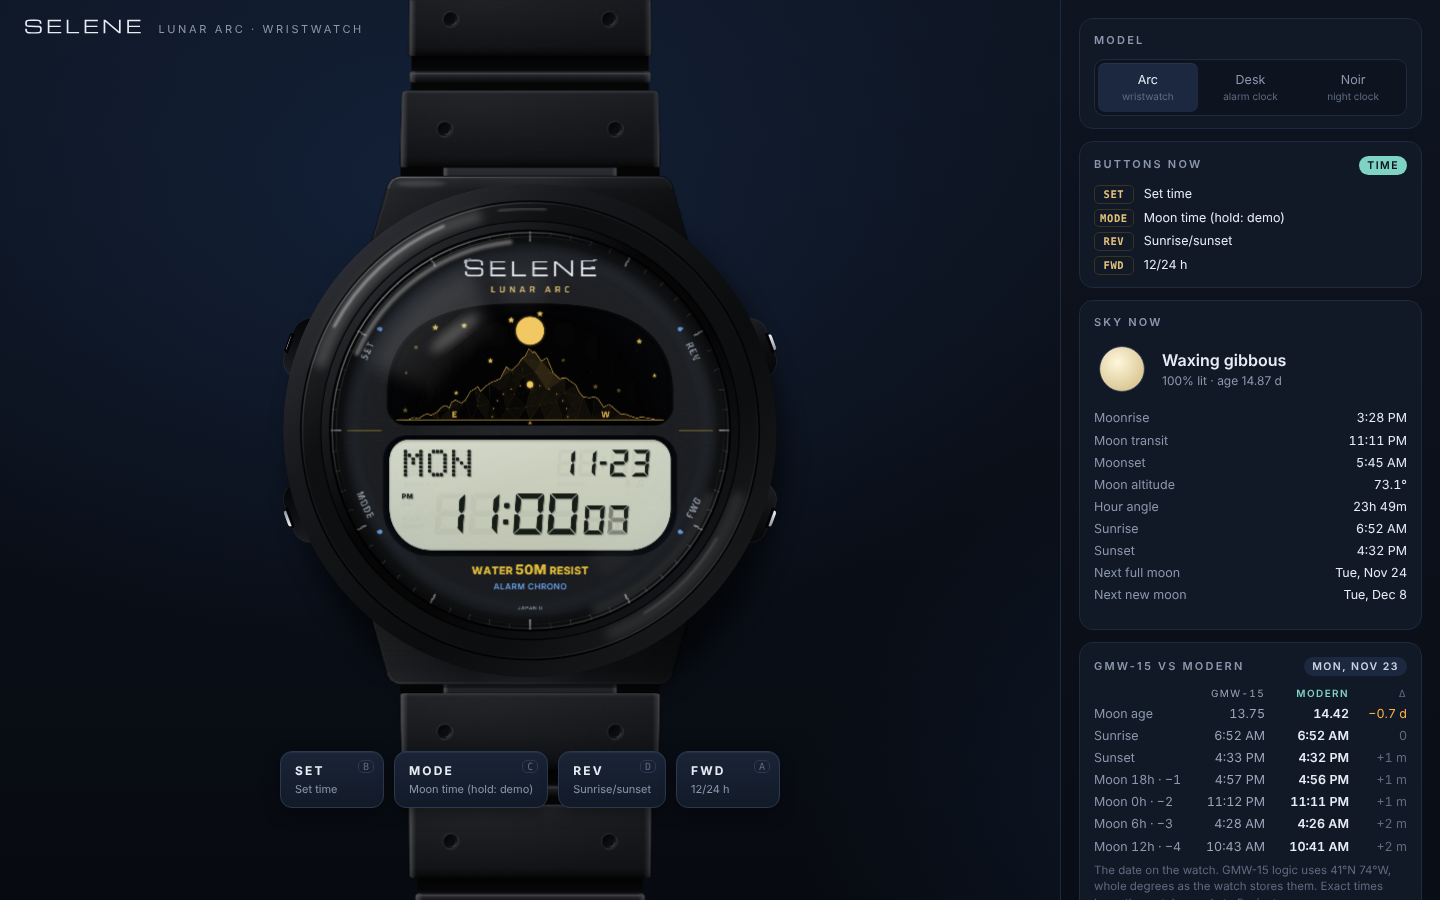
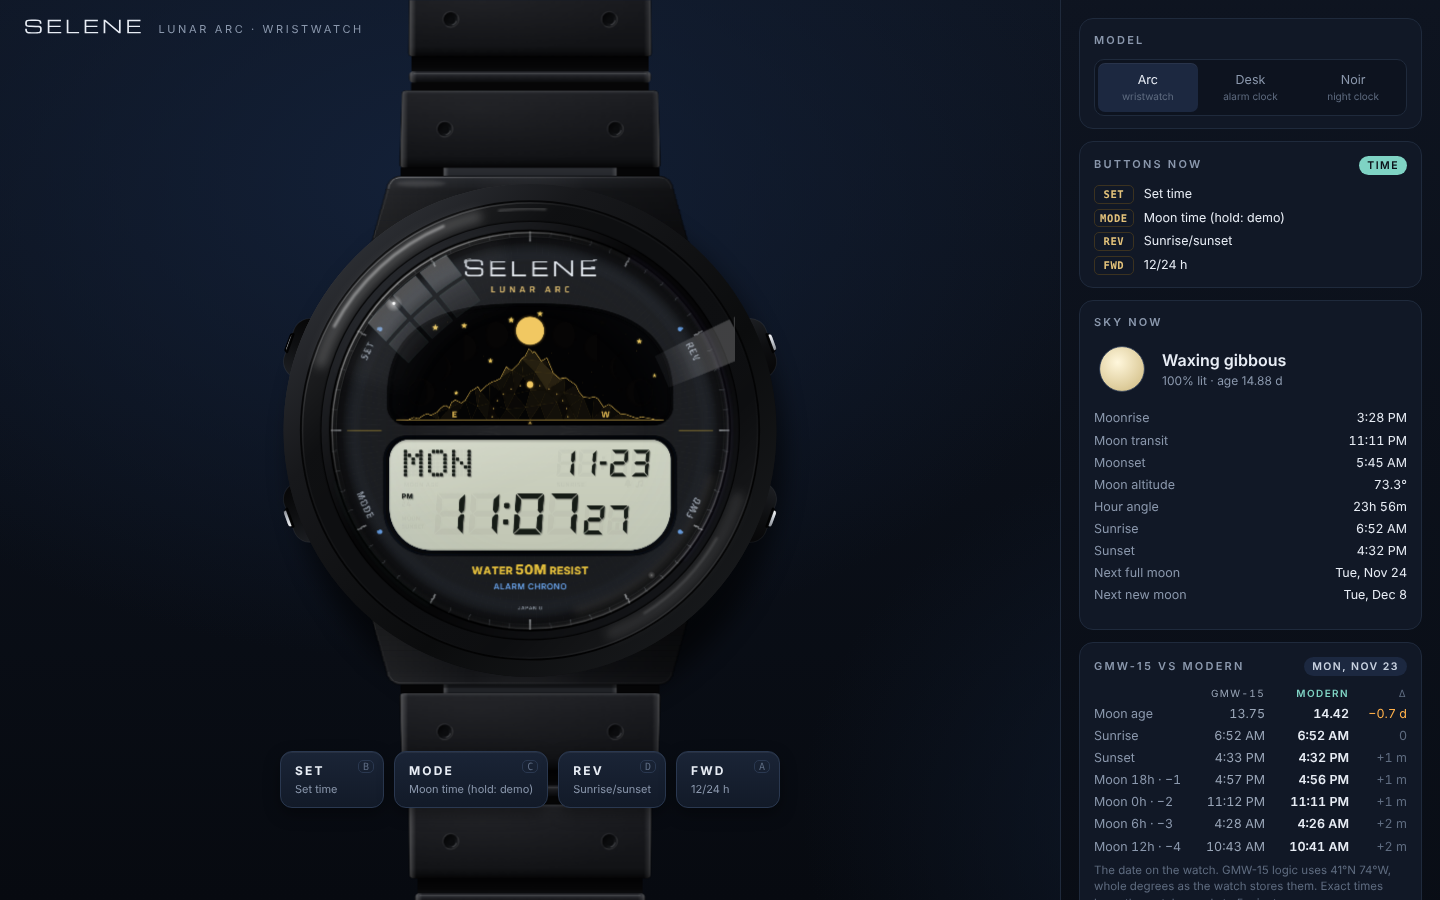
Convex-lens crystal reflection: curved window panes, lamp glint, Fresnel falloff, coating tint, clipped to the crystal
Claude-Session: https://claude.ai/code/session_013ungtZWuFc7hHZrkieKASF

diff --git a/dist/index.html b/dist/index.html
@@ -40,8 +40,9 @@ header.top .tag{font-size:11px;letter-spacing:.24em;color:var(--mute);text-trans
 .device:not(:has(.dialwin)) .dial{transform:translateZ(-22px)}
 .device:not(:has(.dialwin)) .segs{transform:translateZ(-21px)}
 .device .glass{transform:translateZ(6px)}
-.device .spec{transform:translateZ(40px) translate(calc(var(--tx,0)*-2.4%),calc(var(--ty,0)*-2.4%));transition:transform .5s cubic-bezier(.2,.7,.2,1)}
-.device:not(.dome) .spec,.device:not(.dome) .domeonly{display:none}
+.device .specwrap{width:100%;transform:translateZ(40px)}
+.device .specwrap .spec{display:block;width:100%;height:auto;transform:translate(calc(var(--tx,0)*-2.4%),calc(var(--ty,0)*-2.4%));transition:transform .5s cubic-bezier(.2,.7,.2,1);will-change:transform}
+.device:not(.dome) .specwrap,.device:not(.dome) .domeonly{display:none}
 .dome.lens .print{filter:url(#dome)}
 .device.clock svg{max-height:calc(100vh - 210px)}
 .device.watch svg{max-height:calc(100vh - 150px)}
@@ -148,7 +149,7 @@ details summary{cursor:pointer;color:#c9d2e0;font-size:13px}
 .device-wrap{width:min(100%,520px)}
 .pbtn{min-width:calc(50% - 6px);flex:1}
 }
-@media (prefers-reduced-motion:reduce){.device,.device .spec{transition:none}}
+@media (prefers-reduced-motion:reduce){.device,.device .specwrap .spec{transition:none}}
 </style>
 </head>
 <body>
@@ -1982,32 +1983,79 @@ ${svgOpen('segs', vb, 'aria-hidden="true"')}<defs>${clip('segClip')}
 <linearGradient id="lipG" x1="0" y1="0" x2="1" y2="1"><stop offset="0" stop-color="${o.lip[0]}"/><stop offset=".42" stop-color="${o.lip[1]}"/><stop offset=".6" stop-color="${o.lip[1]}"/><stop offset="1" stop-color="${o.lip[2]}"/></linearGradient>
 <linearGradient id="rimG" x1="0" y1="0" x2="1" y2="1"><stop offset="0" stop-color="#fff" stop-opacity="${o.rim}"/><stop offset=".36" stop-color="#fff" stop-opacity="0"/><stop offset=".64" stop-color="#fff" stop-opacity="0"/><stop offset="1" stop-color="#fff" stop-opacity="${o.rim * 0.45}"/></linearGradient>
 <radialGradient id="wallG" gradientUnits="userSpaceOnUse" cx="${cx + 9}" cy="${cy + 13}" r="${Ra + 16}"><stop offset=".86" stop-color="#000" stop-opacity="0"/><stop offset=".95" stop-color="#000" stop-opacity="${o.wall * 0.45}"/><stop offset="1" stop-color="#000" stop-opacity="${o.wall}"/></radialGradient>
+<linearGradient id="fresG" x1="0" y1="0" x2="1" y2="1"><stop offset="0" stop-color="#fff" stop-opacity="${o.rim * 0.34}"/><stop offset=".3" stop-color="#fff" stop-opacity="${o.rim * 0.05}"/><stop offset=".7" stop-color="#fff" stop-opacity="${o.rim * 0.04}"/><stop offset="1" stop-color="#fff" stop-opacity="${o.rim * 0.22}"/></linearGradient>
 <radialGradient id="tintG" gradientUnits="userSpaceOnUse" cx="${cx}" cy="${cy}" r="${Ra}"><stop offset=".55" stop-color="#9fc0ee" stop-opacity="0"/><stop offset=".84" stop-color="#9fc0ee" stop-opacity="${o.tint}"/><stop offset=".94" stop-color="#05070a" stop-opacity="${o.edge * 0.5}"/><stop offset="1" stop-color="#000" stop-opacity="${o.edge}"/></radialGradient>
 </defs>
 <circle cx="${cx}" cy="${cy}" r="${Ra + 1}" fill="url(#wallG)"/>
 <g class="domeonly"><circle cx="${cx}" cy="${cy}" r="${Ra}" fill="url(#tintG)"/>
-<path d="${arcD(cx, cy, Ra - 19, 204, 264)}" fill="none" stroke="#fff" stroke-opacity="${o.rim * 0.5}" stroke-width="8" stroke-linecap="round" filter="url(#gb3)"/>
-<path d="${arcD(cx, cy, Ra - 17, 20, 70)}" fill="none" stroke="#fff" stroke-opacity="${o.rim * 0.2}" stroke-width="11" stroke-linecap="round" filter="url(#gb7)"/>
-<circle cx="${cx}" cy="${cy}" r="${Ra - 11}" fill="none" stroke="url(#rimG)" stroke-width="1.2" opacity=".5"/></g>
+<path d="${arcD(cx, cy, Ra - 24, 15, 75)}" fill="none" stroke="#fff3d6" stroke-opacity="${o.rim * 0.09}" stroke-width="16" stroke-linecap="round" filter="url(#gb7)"/>
+<circle cx="${cx}" cy="${cy}" r="${Ra - 5}" fill="none" stroke="url(#fresG)" stroke-width="7" filter="url(#gb3)"/>
+<circle cx="${cx}" cy="${cy}" r="${Ra - 11}" fill="none" stroke="url(#rimG)" stroke-width="1.2" opacity=".45"/></g>
 <circle cx="${cx}" cy="${cy}" r="${Ra + 8}" fill="none" stroke="url(#lipG)" stroke-width="16"/>
 <circle cx="${cx}" cy="${cy}" r="${Ra + 16}" fill="none" stroke="#000" stroke-opacity=".85" stroke-width="2"/>
 <circle cx="${cx}" cy="${cy}" r="${Ra}" fill="none" stroke="#000" stroke-opacity=".9" stroke-width="3"/>
 <circle cx="${cx}" cy="${cy}" r="${Ra - 4}" fill="none" stroke="url(#rimG)" stroke-width="2.4"/>
 </svg>`;
   }
-  /** Reflections of the room in the dome; this layer floats above the glass and slides as the device tilts. */
+  // ---- the domed crystal as a convex mirror ----
+  // A scene direction d reflects off the dome where the surface normal bisects d and the view axis; seen head-on, that
+  // point sits at Rs·n_xy on screen (Rs = sphere radius = Ra / sin α, α = slope at the rim). Straight window edges
+  // therefore come out curved and squeezed toward the rim, the way a camera lens shows a room.
+  const DOME_SLOPE = 34 * Math.PI / 180;
+  const v3 = { add: (a, b) => a.map((x, i) => x + b[i]), mul: (a, k) => a.map((x) => x * k), norm: (a) => { const l = Math.hypot(...a); return a.map((x) => x / l); },
+    cross: (a, b) => [a[1] * b[2] - a[2] * b[1], a[2] * b[0] - a[0] * b[2], a[0] * b[1] - a[1] * b[0]] };
+  const dirAt = (polar, az) => { const p = polar * Math.PI / 180, z = az * Math.PI / 180; return [Math.sin(p) * Math.cos(z), Math.sin(p) * Math.sin(z), Math.cos(p)]; };
+  function domePt(cx, cy, Ra, P) { // scene point (x right, y down, z toward the viewer) → screen point
+    const d = v3.norm(P), n = v3.norm([d[0], d[1], d[2] + 1]), k = Ra / Math.sin(DOME_SLOPE);
+    return [cx + k * n[0], cy + k * n[1]];
+  }
+  /** Reflection of a flat rectangle facing the watch: centre direction c, half-sizes hu, hv (radians-ish), split into
+   *  cols × rows panes with mullions of width gap. Returns one path per pane. */
+  function windowPanes(cx, cy, Ra, c, hu, hv, cols, rows, gap) {
+    const U = v3.norm(v3.cross(c, [0, 0, 1])), V = v3.norm(v3.cross(U, c)), out = [];
+    const at = (a, b) => domePt(cx, cy, Ra, v3.add(c, v3.add(v3.mul(U, a), v3.mul(V, b))));
+    for (let i = 0; i < cols; i++) for (let j = 0; j < rows; j++) {
+      const a0 = -hu + (2 * hu) * i / cols + (i ? gap / 2 : 0), a1 = -hu + (2 * hu) * (i + 1) / cols - (i < cols - 1 ? gap / 2 : 0);
+      const b0 = -hv + (2 * hv) * j / rows + (j ? gap / 2 : 0), b1 = -hv + (2 * hv) * (j + 1) / rows - (j < rows - 1 ? gap / 2 : 0);
+      const pts = [], N = 14;
+      for (let t = 0; t <= N; t++) pts.push(at(a0 + (a1 - a0) * t / N, b0));
+      for (let t = 0; t <= N; t++) pts.push(at(a1, b0 + (b1 - b0) * t / N));
+      for (let t = 0; t <= N; t++) pts.push(at(a1 - (a1 - a0) * t / N, b1));
+      for (let t = 0; t <= N; t++) pts.push(at(a0, b1 - (b1 - b0) * t / N));
+      out.push('M' + pts.map((p) => `${n1(p[0])} ${n1(p[1])}`).join('L') + 'Z');
+    }
+    return out;
+  }
+  /** Reflections in the dome; this layer floats above the glass and slides as the device tilts. Reflections grow
+   *  stronger toward the rim (Fresnel) and stay faint over the middle of the face. k scales the overall strength. */
   function specLayer(vb, cx, cy, Ra, k) {
-    const h = pol(cx, cy, Ra * 0.6, 232);
-    return `${svgOpen('spec', vb, 'aria-hidden="true"')}<defs>
-<filter id="sb8" x="-30%" y="-30%" width="160%" height="160%"><feGaussianBlur stdDeviation="8"/></filter>
+    const win = windowPanes(cx, cy, Ra, dirAt(53, 229), 0.25, 0.18, 3, 2, 0.026);       // the main window, upper left
+    const win2 = windowPanes(cx, cy, Ra, dirAt(63, 336), 0.09, 0.3, 1, 1, 0);        // a narrow one to the right
+    const lamp = domePt(cx, cy, Ra, dirAt(61, 223)), glint = domePt(cx, cy, Ra, dirAt(62, 50));
+    const kk = (x) => +(x * k).toFixed(3);
+    // the frame is fixed to the crystal (a circular clip), the reflections inside slide as the watch tilts
+    const [vx, vy, vw, vh] = vb.split(' ').map(Number), pr = (Ra - 2) / (Math.hypot(vw, vh) / Math.SQRT2) * 100;
+    return `<div class="L specwrap" style="clip-path:circle(${pr.toFixed(3)}% at ${((cx - vx) / vw * 100).toFixed(3)}% ${((cy - vy) / vh * 100).toFixed(3)}%)"><svg class="spec" viewBox="${vb}" xmlns="http://www.w3.org/2000/svg" aria-hidden="true"><defs>
+<filter id="sb1" x="-10%" y="-10%" width="120%" height="120%"><feGaussianBlur stdDeviation="1.1"/></filter>
+<filter id="sb4" x="-30%" y="-30%" width="160%" height="160%"><feGaussianBlur stdDeviation="4"/></filter>
 <filter id="sb14" x="-40%" y="-40%" width="180%" height="180%"><feGaussianBlur stdDeviation="14"/></filter>
-<linearGradient id="paneG" x1="0" y1="0" x2="1" y2="1"><stop offset="0" stop-color="#fff" stop-opacity="${0.2 * k}"/><stop offset="1" stop-color="#fff" stop-opacity="${0.02 * k}"/></linearGradient>
+<radialGradient id="fresnel" gradientUnits="userSpaceOnUse" cx="${cx}" cy="${cy}" r="${Ra}"><stop offset=".3" stop-color="#fff" stop-opacity=".12"/><stop offset=".62" stop-color="#fff" stop-opacity=".38"/><stop offset=".86" stop-color="#fff" stop-opacity=".95"/><stop offset="1" stop-color="#fff"/></radialGradient>
+<mask id="specMask" maskUnits="userSpaceOnUse" x="${cx - Ra - 60}" y="${cy - Ra - 60}" width="${2 * Ra + 120}" height="${2 * Ra + 120}"><circle cx="${cx}" cy="${cy}" r="${Ra + 40}" fill="url(#fresnel)"/></mask>
+<radialGradient id="paneF" gradientUnits="userSpaceOnUse" cx="${cx}" cy="${cy}" r="${Ra}"><stop offset=".45" stop-color="#eaf1ff" stop-opacity="${kk(0.05)}"/><stop offset=".78" stop-color="#f4f7ff" stop-opacity="${kk(0.15)}"/><stop offset=".95" stop-color="#fff" stop-opacity="${kk(0.3)}"/></radialGradient>
+<linearGradient id="coatG" gradientUnits="userSpaceOnUse" x1="${cx - Ra}" y1="${cy - Ra}" x2="${cx}" y2="${cy}"><stop offset="0" stop-color="#c79bff"/><stop offset=".5" stop-color="#8fe3d0"/><stop offset="1" stop-color="#c79bff"/></linearGradient>
+<radialGradient id="lampG"><stop offset="0" stop-color="#fff" stop-opacity="${kk(0.95)}"/><stop offset=".25" stop-color="#fff" stop-opacity="${kk(0.45)}"/><stop offset="1" stop-color="#fff" stop-opacity="0"/></radialGradient>
 </defs>
-<path d="${sectorD(cx, cy, Ra * 0.5, Ra * 0.84, 202, 250)}" fill="url(#paneG)" filter="url(#sb14)"/>
-<path d="${sectorD(cx, cy, Ra * 0.6, Ra * 0.82, 258, 276)}" fill="#fff" fill-opacity="${0.06 * k}" filter="url(#sb14)"/>
-<ellipse cx="${n1(h[0])}" cy="${n1(h[1])}" rx="52" ry="12" transform="rotate(-38 ${n1(h[0])} ${n1(h[1])})" fill="#fff" fill-opacity="${0.26 * k}" filter="url(#sb8)"/>
-<path d="${sectorD(cx, cy, Ra * 0.62, Ra * 0.8, 28, 64)}" fill="#fff" fill-opacity="${0.045 * k}" filter="url(#sb14)"/>
-</svg>`;
+<g mask="url(#specMask)">
+<path d="${sectorD(cx, cy, Ra * 0.58, Ra * 0.98, 196, 262)}" fill="#fff" fill-opacity="${kk(0.035)}" filter="url(#sb14)"/>
+<g filter="url(#sb1)"><path d="${win.join('')}" fill="url(#paneF)"/><path d="${win2.join('')}" fill="url(#paneF)" opacity=".7"/></g>
+<path d="${win.join('')}" fill="none" stroke="url(#coatG)" stroke-opacity="${kk(0.16)}" stroke-width="1.2"/>
+<path d="${arcD(cx, cy, Ra - 9, 300, 400)}" fill="none" stroke="#b79cff" stroke-opacity="${kk(0.12)}" stroke-width="5" stroke-linecap="round" filter="url(#sb4)"/>
+<path d="${arcD(cx, cy, Ra - 7, 120, 165)}" fill="none" stroke="#9fe8d6" stroke-opacity="${kk(0.08)}" stroke-width="4" stroke-linecap="round" filter="url(#sb4)"/>
+</g>
+<circle cx="${n1(lamp[0])}" cy="${n1(lamp[1])}" r="15" fill="url(#lampG)"/>
+<circle cx="${n1(lamp[0])}" cy="${n1(lamp[1])}" r="2.6" fill="#fff" fill-opacity="${kk(0.95)}"/>
+<circle cx="${n1(glint[0])}" cy="${n1(glint[1])}" r="7" fill="url(#lampG)" opacity=".5"/>
+</svg></div>`;
   }
 
   // Shrouds are broad, low lobes on the case (about a quarter of the case radius wide, standing 17.5 proud of it), drawn

diff --git a/web/app.js b/web/app.js
@@ -133,32 +133,79 @@ ${svgOpen('segs', vb, 'aria-hidden="true"')}<defs>${clip('segClip')}
 <linearGradient id="lipG" x1="0" y1="0" x2="1" y2="1"><stop offset="0" stop-color="${o.lip[0]}"/><stop offset=".42" stop-color="${o.lip[1]}"/><stop offset=".6" stop-color="${o.lip[1]}"/><stop offset="1" stop-color="${o.lip[2]}"/></linearGradient>
 <linearGradient id="rimG" x1="0" y1="0" x2="1" y2="1"><stop offset="0" stop-color="#fff" stop-opacity="${o.rim}"/><stop offset=".36" stop-color="#fff" stop-opacity="0"/><stop offset=".64" stop-color="#fff" stop-opacity="0"/><stop offset="1" stop-color="#fff" stop-opacity="${o.rim * 0.45}"/></linearGradient>
 <radialGradient id="wallG" gradientUnits="userSpaceOnUse" cx="${cx + 9}" cy="${cy + 13}" r="${Ra + 16}"><stop offset=".86" stop-color="#000" stop-opacity="0"/><stop offset=".95" stop-color="#000" stop-opacity="${o.wall * 0.45}"/><stop offset="1" stop-color="#000" stop-opacity="${o.wall}"/></radialGradient>
+<linearGradient id="fresG" x1="0" y1="0" x2="1" y2="1"><stop offset="0" stop-color="#fff" stop-opacity="${o.rim * 0.34}"/><stop offset=".3" stop-color="#fff" stop-opacity="${o.rim * 0.05}"/><stop offset=".7" stop-color="#fff" stop-opacity="${o.rim * 0.04}"/><stop offset="1" stop-color="#fff" stop-opacity="${o.rim * 0.22}"/></linearGradient>
 <radialGradient id="tintG" gradientUnits="userSpaceOnUse" cx="${cx}" cy="${cy}" r="${Ra}"><stop offset=".55" stop-color="#9fc0ee" stop-opacity="0"/><stop offset=".84" stop-color="#9fc0ee" stop-opacity="${o.tint}"/><stop offset=".94" stop-color="#05070a" stop-opacity="${o.edge * 0.5}"/><stop offset="1" stop-color="#000" stop-opacity="${o.edge}"/></radialGradient>
 </defs>
 <circle cx="${cx}" cy="${cy}" r="${Ra + 1}" fill="url(#wallG)"/>
 <g class="domeonly"><circle cx="${cx}" cy="${cy}" r="${Ra}" fill="url(#tintG)"/>
-<path d="${arcD(cx, cy, Ra - 19, 204, 264)}" fill="none" stroke="#fff" stroke-opacity="${o.rim * 0.5}" stroke-width="8" stroke-linecap="round" filter="url(#gb3)"/>
-<path d="${arcD(cx, cy, Ra - 17, 20, 70)}" fill="none" stroke="#fff" stroke-opacity="${o.rim * 0.2}" stroke-width="11" stroke-linecap="round" filter="url(#gb7)"/>
-<circle cx="${cx}" cy="${cy}" r="${Ra - 11}" fill="none" stroke="url(#rimG)" stroke-width="1.2" opacity=".5"/></g>
+<path d="${arcD(cx, cy, Ra - 24, 15, 75)}" fill="none" stroke="#fff3d6" stroke-opacity="${o.rim * 0.09}" stroke-width="16" stroke-linecap="round" filter="url(#gb7)"/>
+<circle cx="${cx}" cy="${cy}" r="${Ra - 5}" fill="none" stroke="url(#fresG)" stroke-width="7" filter="url(#gb3)"/>
+<circle cx="${cx}" cy="${cy}" r="${Ra - 11}" fill="none" stroke="url(#rimG)" stroke-width="1.2" opacity=".45"/></g>
 <circle cx="${cx}" cy="${cy}" r="${Ra + 8}" fill="none" stroke="url(#lipG)" stroke-width="16"/>
 <circle cx="${cx}" cy="${cy}" r="${Ra + 16}" fill="none" stroke="#000" stroke-opacity=".85" stroke-width="2"/>
 <circle cx="${cx}" cy="${cy}" r="${Ra}" fill="none" stroke="#000" stroke-opacity=".9" stroke-width="3"/>
 <circle cx="${cx}" cy="${cy}" r="${Ra - 4}" fill="none" stroke="url(#rimG)" stroke-width="2.4"/>
 </svg>`;
   }
-  /** Reflections of the room in the dome; this layer floats above the glass and slides as the device tilts. */
+  // ---- the domed crystal as a convex mirror ----
+  // A scene direction d reflects off the dome where the surface normal bisects d and the view axis; seen head-on, that
+  // point sits at Rs·n_xy on screen (Rs = sphere radius = Ra / sin α, α = slope at the rim). Straight window edges
+  // therefore come out curved and squeezed toward the rim, the way a camera lens shows a room.
+  const DOME_SLOPE = 34 * Math.PI / 180;
+  const v3 = { add: (a, b) => a.map((x, i) => x + b[i]), mul: (a, k) => a.map((x) => x * k), norm: (a) => { const l = Math.hypot(...a); return a.map((x) => x / l); },
+    cross: (a, b) => [a[1] * b[2] - a[2] * b[1], a[2] * b[0] - a[0] * b[2], a[0] * b[1] - a[1] * b[0]] };
+  const dirAt = (polar, az) => { const p = polar * Math.PI / 180, z = az * Math.PI / 180; return [Math.sin(p) * Math.cos(z), Math.sin(p) * Math.sin(z), Math.cos(p)]; };
+  function domePt(cx, cy, Ra, P) { // scene point (x right, y down, z toward the viewer) → screen point
+    const d = v3.norm(P), n = v3.norm([d[0], d[1], d[2] + 1]), k = Ra / Math.sin(DOME_SLOPE);
+    return [cx + k * n[0], cy + k * n[1]];
+  }
+  /** Reflection of a flat rectangle facing the watch: centre direction c, half-sizes hu, hv (radians-ish), split into
+   *  cols × rows panes with mullions of width gap. Returns one path per pane. */
+  function windowPanes(cx, cy, Ra, c, hu, hv, cols, rows, gap) {
+    const U = v3.norm(v3.cross(c, [0, 0, 1])), V = v3.norm(v3.cross(U, c)), out = [];
+    const at = (a, b) => domePt(cx, cy, Ra, v3.add(c, v3.add(v3.mul(U, a), v3.mul(V, b))));
+    for (let i = 0; i < cols; i++) for (let j = 0; j < rows; j++) {
+      const a0 = -hu + (2 * hu) * i / cols + (i ? gap / 2 : 0), a1 = -hu + (2 * hu) * (i + 1) / cols - (i < cols - 1 ? gap / 2 : 0);
+      const b0 = -hv + (2 * hv) * j / rows + (j ? gap / 2 : 0), b1 = -hv + (2 * hv) * (j + 1) / rows - (j < rows - 1 ? gap / 2 : 0);
+      const pts = [], N = 14;
+      for (let t = 0; t <= N; t++) pts.push(at(a0 + (a1 - a0) * t / N, b0));
+      for (let t = 0; t <= N; t++) pts.push(at(a1, b0 + (b1 - b0) * t / N));
+      for (let t = 0; t <= N; t++) pts.push(at(a1 - (a1 - a0) * t / N, b1));
+      for (let t = 0; t <= N; t++) pts.push(at(a0, b1 - (b1 - b0) * t / N));
+      out.push('M' + pts.map((p) => `${n1(p[0])} ${n1(p[1])}`).join('L') + 'Z');
+    }
+    return out;
+  }
+  /** Reflections in the dome; this layer floats above the glass and slides as the device tilts. Reflections grow
+   *  stronger toward the rim (Fresnel) and stay faint over the middle of the face. k scales the overall strength. */
   function specLayer(vb, cx, cy, Ra, k) {
-    const h = pol(cx, cy, Ra * 0.6, 232);
-    return `${svgOpen('spec', vb, 'aria-hidden="true"')}<defs>
-<filter id="sb8" x="-30%" y="-30%" width="160%" height="160%"><feGaussianBlur stdDeviation="8"/></filter>
+    const win = windowPanes(cx, cy, Ra, dirAt(53, 229), 0.25, 0.18, 3, 2, 0.026);       // the main window, upper left
+    const win2 = windowPanes(cx, cy, Ra, dirAt(63, 336), 0.09, 0.3, 1, 1, 0);        // a narrow one to the right
+    const lamp = domePt(cx, cy, Ra, dirAt(61, 223)), glint = domePt(cx, cy, Ra, dirAt(62, 50));
+    const kk = (x) => +(x * k).toFixed(3);
+    // the frame is fixed to the crystal (a circular clip), the reflections inside slide as the watch tilts
+    const [vx, vy, vw, vh] = vb.split(' ').map(Number), pr = (Ra - 2) / (Math.hypot(vw, vh) / Math.SQRT2) * 100;
+    return `<div class="L specwrap" style="clip-path:circle(${pr.toFixed(3)}% at ${((cx - vx) / vw * 100).toFixed(3)}% ${((cy - vy) / vh * 100).toFixed(3)}%)"><svg class="spec" viewBox="${vb}" xmlns="http://www.w3.org/2000/svg" aria-hidden="true"><defs>
+<filter id="sb1" x="-10%" y="-10%" width="120%" height="120%"><feGaussianBlur stdDeviation="1.1"/></filter>
+<filter id="sb4" x="-30%" y="-30%" width="160%" height="160%"><feGaussianBlur stdDeviation="4"/></filter>
 <filter id="sb14" x="-40%" y="-40%" width="180%" height="180%"><feGaussianBlur stdDeviation="14"/></filter>
-<linearGradient id="paneG" x1="0" y1="0" x2="1" y2="1"><stop offset="0" stop-color="#fff" stop-opacity="${0.2 * k}"/><stop offset="1" stop-color="#fff" stop-opacity="${0.02 * k}"/></linearGradient>
+<radialGradient id="fresnel" gradientUnits="userSpaceOnUse" cx="${cx}" cy="${cy}" r="${Ra}"><stop offset=".3" stop-color="#fff" stop-opacity=".12"/><stop offset=".62" stop-color="#fff" stop-opacity=".38"/><stop offset=".86" stop-color="#fff" stop-opacity=".95"/><stop offset="1" stop-color="#fff"/></radialGradient>
+<mask id="specMask" maskUnits="userSpaceOnUse" x="${cx - Ra - 60}" y="${cy - Ra - 60}" width="${2 * Ra + 120}" height="${2 * Ra + 120}"><circle cx="${cx}" cy="${cy}" r="${Ra + 40}" fill="url(#fresnel)"/></mask>
+<radialGradient id="paneF" gradientUnits="userSpaceOnUse" cx="${cx}" cy="${cy}" r="${Ra}"><stop offset=".45" stop-color="#eaf1ff" stop-opacity="${kk(0.05)}"/><stop offset=".78" stop-color="#f4f7ff" stop-opacity="${kk(0.15)}"/><stop offset=".95" stop-color="#fff" stop-opacity="${kk(0.3)}"/></radialGradient>
+<linearGradient id="coatG" gradientUnits="userSpaceOnUse" x1="${cx - Ra}" y1="${cy - Ra}" x2="${cx}" y2="${cy}"><stop offset="0" stop-color="#c79bff"/><stop offset=".5" stop-color="#8fe3d0"/><stop offset="1" stop-color="#c79bff"/></linearGradient>
+<radialGradient id="lampG"><stop offset="0" stop-color="#fff" stop-opacity="${kk(0.95)}"/><stop offset=".25" stop-color="#fff" stop-opacity="${kk(0.45)}"/><stop offset="1" stop-color="#fff" stop-opacity="0"/></radialGradient>
 </defs>
-<path d="${sectorD(cx, cy, Ra * 0.5, Ra * 0.84, 202, 250)}" fill="url(#paneG)" filter="url(#sb14)"/>
-<path d="${sectorD(cx, cy, Ra * 0.6, Ra * 0.82, 258, 276)}" fill="#fff" fill-opacity="${0.06 * k}" filter="url(#sb14)"/>
-<ellipse cx="${n1(h[0])}" cy="${n1(h[1])}" rx="52" ry="12" transform="rotate(-38 ${n1(h[0])} ${n1(h[1])})" fill="#fff" fill-opacity="${0.26 * k}" filter="url(#sb8)"/>
-<path d="${sectorD(cx, cy, Ra * 0.62, Ra * 0.8, 28, 64)}" fill="#fff" fill-opacity="${0.045 * k}" filter="url(#sb14)"/>
-</svg>`;
+<g mask="url(#specMask)">
+<path d="${sectorD(cx, cy, Ra * 0.58, Ra * 0.98, 196, 262)}" fill="#fff" fill-opacity="${kk(0.035)}" filter="url(#sb14)"/>
+<g filter="url(#sb1)"><path d="${win.join('')}" fill="url(#paneF)"/><path d="${win2.join('')}" fill="url(#paneF)" opacity=".7"/></g>
+<path d="${win.join('')}" fill="none" stroke="url(#coatG)" stroke-opacity="${kk(0.16)}" stroke-width="1.2"/>
+<path d="${arcD(cx, cy, Ra - 9, 300, 400)}" fill="none" stroke="#b79cff" stroke-opacity="${kk(0.12)}" stroke-width="5" stroke-linecap="round" filter="url(#sb4)"/>
+<path d="${arcD(cx, cy, Ra - 7, 120, 165)}" fill="none" stroke="#9fe8d6" stroke-opacity="${kk(0.08)}" stroke-width="4" stroke-linecap="round" filter="url(#sb4)"/>
+</g>
+<circle cx="${n1(lamp[0])}" cy="${n1(lamp[1])}" r="15" fill="url(#lampG)"/>
+<circle cx="${n1(lamp[0])}" cy="${n1(lamp[1])}" r="2.6" fill="#fff" fill-opacity="${kk(0.95)}"/>
+<circle cx="${n1(glint[0])}" cy="${n1(glint[1])}" r="7" fill="url(#lampG)" opacity=".5"/>
+</svg></div>`;
   }
 
   // Shrouds are broad, low lobes on the case (about a quarter of the case radius wide, standing 17.5 proud of it), drawn

diff --git a/web/app.css b/web/app.css
@@ -31,8 +31,9 @@ header.top .tag{font-size:11px;letter-spacing:.24em;color:var(--mute);text-trans
 .device:not(:has(.dialwin)) .dial{transform:translateZ(-22px)}
 .device:not(:has(.dialwin)) .segs{transform:translateZ(-21px)}
 .device .glass{transform:translateZ(6px)}
-.device .spec{transform:translateZ(40px) translate(calc(var(--tx,0)*-2.4%),calc(var(--ty,0)*-2.4%));transition:transform .5s cubic-bezier(.2,.7,.2,1)}
-.device:not(.dome) .spec,.device:not(.dome) .domeonly{display:none}
+.device .specwrap{width:100%;transform:translateZ(40px)}
+.device .specwrap .spec{display:block;width:100%;height:auto;transform:translate(calc(var(--tx,0)*-2.4%),calc(var(--ty,0)*-2.4%));transition:transform .5s cubic-bezier(.2,.7,.2,1);will-change:transform}
+.device:not(.dome) .specwrap,.device:not(.dome) .domeonly{display:none}
 .dome.lens .print{filter:url(#dome)}
 .device.clock svg{max-height:calc(100vh - 210px)}
 .device.watch svg{max-height:calc(100vh - 150px)}
@@ -143,4 +144,4 @@ details summary{cursor:pointer;color:#c9d2e0;font-size:13px}
   .device-wrap{width:min(100%,520px)}
   .pbtn{min-width:calc(50% - 6px);flex:1}
 }
-@media (prefers-reduced-motion:reduce){.device,.device .spec{transition:none}}
+@media (prefers-reduced-motion:reduce){.device,.device .specwrap .spec{transition:none}}

diff --git a/README.md b/README.md
@@ -46,7 +46,9 @@ marker lapping 24 steps while the phase advances every second tick, timekeeping 
 
 **The crystal is domed.** The watch and clocks are drawn as stacked layers at different depths: move the pointer
 (or tilt a phone that reports orientation) and the reflections slide over the dial while the dial shifts under the
-bezel. The dome also stretches the print near the rim. *Settings → Domed crystal* switches it off.
+bezel. The reflections are mapped like a convex lens: a window, a lamp and a far wall are squeezed and curved toward
+the rim, grow brighter at grazing angles (Fresnel), pick up a faint purple/green anti-reflective coating tint and stay
+clear of the middle of the dial. The dome also stretches the print near the rim. *Settings → Domed crystal* switches it off.
 
 **The band and lugs are measured off a real watch.** Each strap has a narrow tab under the lug, two dimpled pads
 divided by grooved ribs, then the flat strap with its holes. The lugs are drawn as thin slices, each a little deeper
